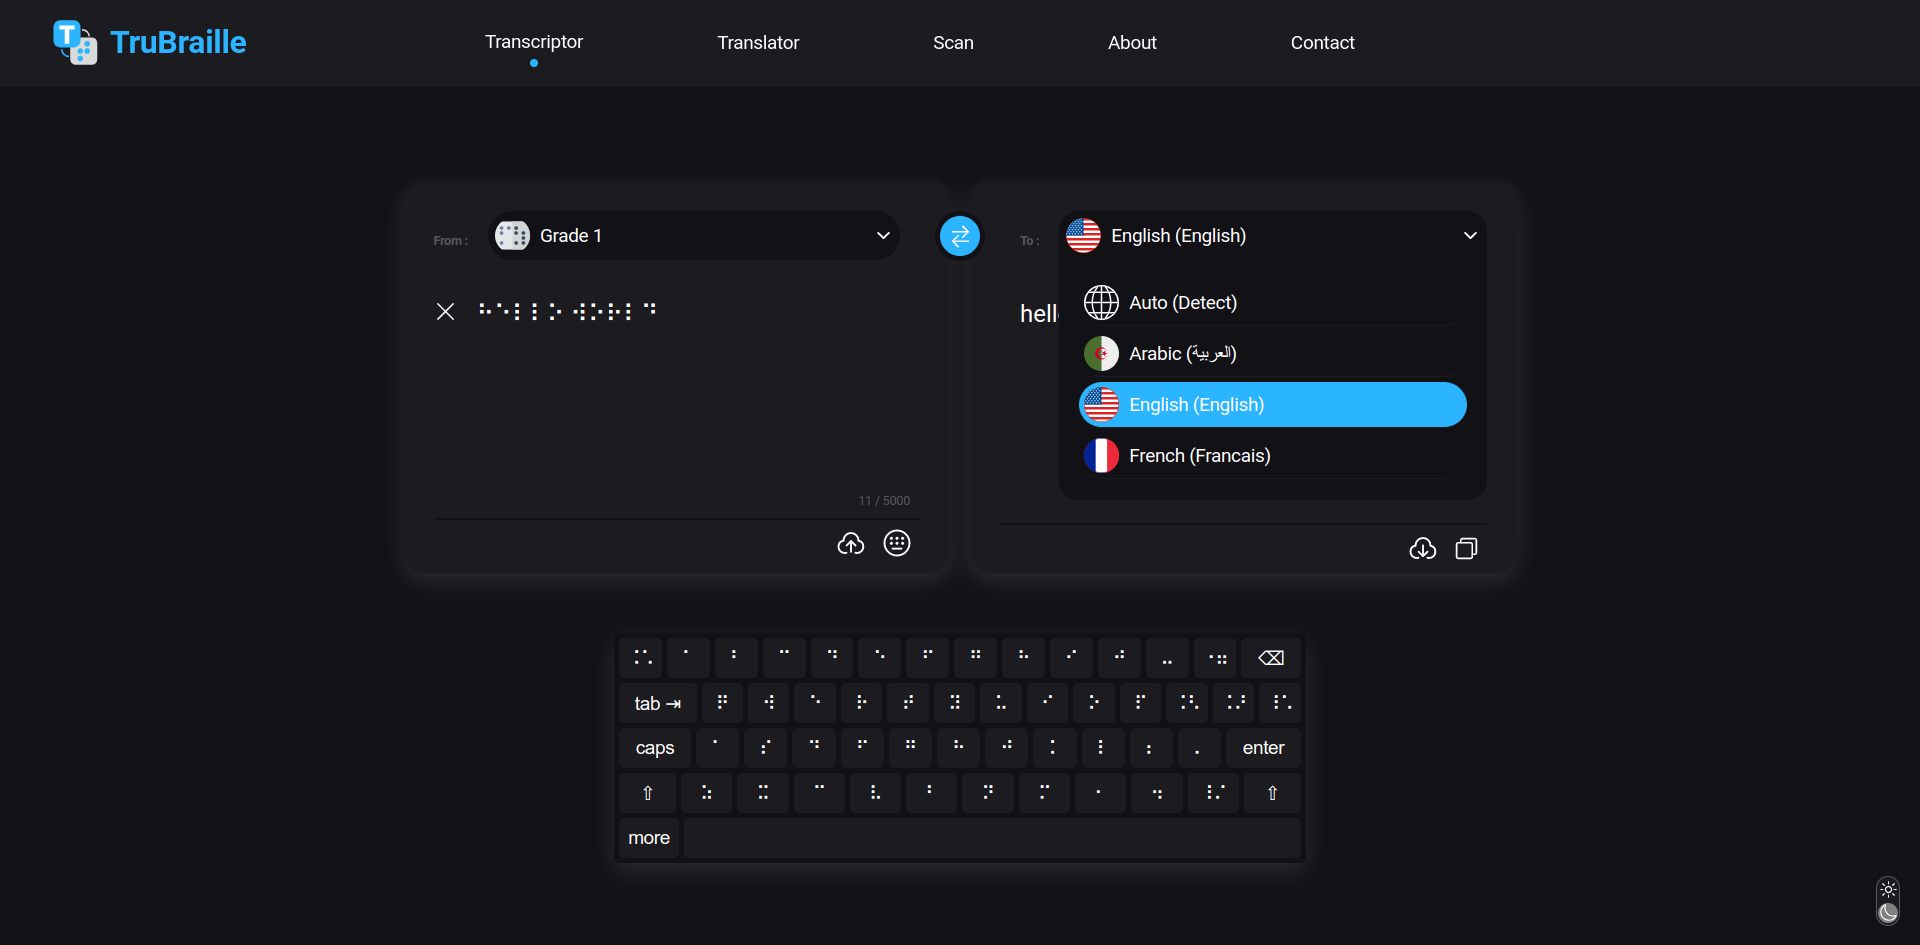
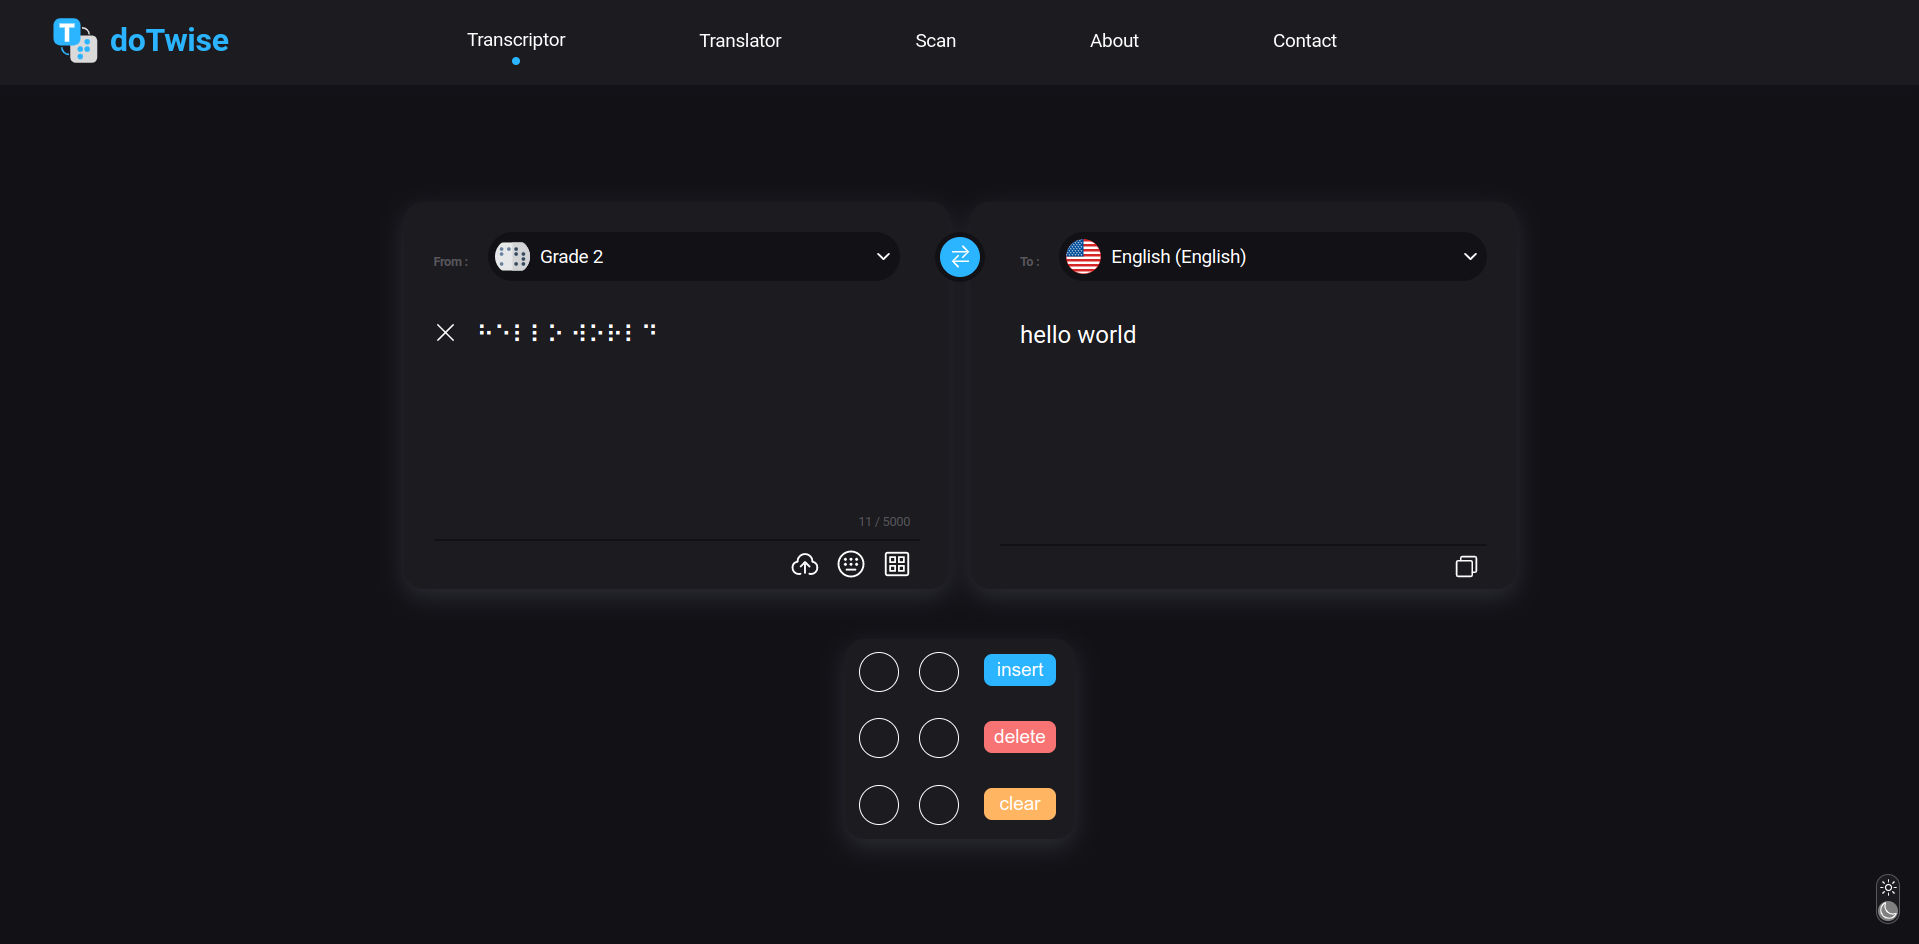
update the readme file

diff --git a/frontend/braille-translator/src/constants/keyboardLayout.js b/frontend/braille-translator/src/constants/keyboardLayout.js
@@ -129,6 +129,121 @@ const layout = {
     "{shift} ⠘⠒ ⠒ ⠴⠂ ⠐⠦ ⠇⠜ ⠜ ⠄ ⠂ ⠲ ⠦ {shift}",
     "@ {space}",
   ],
+  auto_2: [
+    '` 1 2 3 4 5 6 7 8 9 0 - = {bksp}',
+    '{tab} q w e r t y u i o p [ ] \\',
+    '{lock} a s d f g h j k l ; \' {enter}',
+    '{shift} z x c v b n m , . / {shift}',
+    '{space}'
+  ],
+  auto_2_shift: [
+    '~ ! @ # $ % ^ &amp; * ( ) _ + {bksp}',
+    '{tab} Q W E R T Y U I O P { } |',
+    '{lock} A S D F G H J K L : " {enter}',
+    '{shift} Z X C V B N M &lt; &gt; ? {shift}',
+    '{space}'
+  ],
+  "2_auto": [
+    '⠨⠡ ⠁ ⠃ ⠉ ⠙ ⠑ ⠋ ⠛ ⠓ ⠊ ⠚ ⠤ ⠐⠶ {bksp}',
+    '{tab} ⠟ ⠺ ⠑ ⠗ ⠞ ⠽ ⠥ ⠊ ⠕ ⠏ ⠨⠣ ⠨⠜ ⠸⠡',
+    '{lock} ⠁ ⠎ ⠙ ⠋ ⠛ ⠓ ⠚ ⠅ ⠇ ⠆ ⠄ {enter}',
+    '{shift} ⠵ ⠭ ⠉ ⠧ ⠃ ⠝ ⠍ ⠂ ⠲ ⠸⠌ {shift}',
+    '@ {space}'
+
+  ],
+  "2_auto_shift": [
+    '⠈⠔ ⠖ ⠈⠁ ⠸⠹ ⠈⠎ ⠨⠴ ⠈⠢ ⠈⠯ ⠐⠔ ⠐⠣ ⠐⠜ ⠨⠤ ⠐⠖ {bksp}',
+    '{tab} ⠟ ⠺ ⠑ ⠗ ⠞ ⠽ ⠥ ⠊ ⠕ ⠏ ⠸⠣ ⠸⠜ ⠸⠳',
+    '{lock} ⠁ ⠎ ⠙ ⠋ ⠛ ⠓ ⠚ ⠅ ⠇ ⠒ ⠠⠶ {enter}',
+    '{shift} ⠵ ⠭ ⠉ ⠧ ⠃ ⠝ ⠍ ⠈⠣ ⠈⠜ ⠰⠦ {shift}',
+    '@ {space}'
+  ],
+  en_2: [
+    '` 1 2 3 4 5 6 7 8 9 0 - = {bksp}',
+    '{tab} q w e r t y u i o p [ ] \\',
+    '{lock} a s d f g h j k l ; \' {enter}',
+    '{shift} z x c v b n m , . / {shift}',
+    '{space}'
+  ],
+  en_2_shift: [
+    '~ ! @ # $ % ^ &amp; * ( ) _ + {bksp}',
+    '{tab} Q W E R T Y U I O P { } |',
+    '{lock} A S D F G H J K L : " {enter}',
+    '{shift} Z X C V B N M &lt; &gt; ? {shift}',
+    '{space}'
+  ],
+  "2_en": [
+    '⠨⠡ ⠁ ⠃ ⠉ ⠙ ⠑ ⠋ ⠛ ⠓ ⠊ ⠚ ⠤ ⠐⠶ {bksp}',
+    '{tab} ⠟ ⠺ ⠑ ⠗ ⠞ ⠽ ⠥ ⠊ ⠕ ⠏ ⠨⠣ ⠨⠜ ⠸⠡',
+    '{lock} ⠁ ⠎ ⠙ ⠋ ⠛ ⠓ ⠚ ⠅ ⠇ ⠆ ⠄ {enter}',
+    '{shift} ⠵ ⠭ ⠉ ⠧ ⠃ ⠝ ⠍ ⠂ ⠲ ⠸⠌ {shift}',
+    '@ {space}'
+
+  ],
+  "2_en_shift": [
+    '⠈⠔ ⠖ ⠈⠁ ⠸⠹ ⠈⠎ ⠨⠴ ⠈⠢ ⠈⠯ ⠐⠔ ⠐⠣ ⠐⠜ ⠨⠤ ⠐⠖ {bksp}',
+    '{tab} ⠟ ⠺ ⠑ ⠗ ⠞ ⠽ ⠥ ⠊ ⠕ ⠏ ⠸⠣ ⠸⠜ ⠸⠳',
+    '{lock} ⠁ ⠎ ⠙ ⠋ ⠛ ⠓ ⠚ ⠅ ⠇ ⠒ ⠠⠶ {enter}',
+    '{shift} ⠵ ⠭ ⠉ ⠧ ⠃ ⠝ ⠍ ⠈⠣ ⠈⠜ ⠰⠦ {shift}',
+    '@ {space}'
+  ],
+  fr_2: [
+    "` 1 2 3 4 5 6 7 8 9 0 \u00B0 + {bksp}",
+    "{tab} a z e r t y u i o p ^ $",
+    "{lock} q s d f g h j k l m \u00F9 * {enter}",
+    "{shift} < w x c v b n , ; : ! {shift}",
+    "{space}",
+  ],
+  fr_2_shift: [
+    "\u00B2 & \u00E9 \" ' ( - \u00E8 _ \u00E7 \u00E0 ) = {bksp}",
+    "{tab} A Z E R T Y U I O P \u00A8 \u00A3",
+    "{lock} Q S D F G H J K L M % \u00B5 {enter}",
+    "{shift} > W X C V B N ? . / \u00A7 {shift}",
+    "{space}",
+  ],
+  "2_fr": [
+    "⠠ ⠡ ⠣ ⠩ ⠹ ⠱ ⠫ ⠻ ⠳ ⠪ ⠼ ⠐⠕ ⠠⠖ {bksp}",
+    "{tab} ⠁ ⠵ ⠑ ⠗ ⠞ ⠽ ⠥ ⠊ ⠕ ⠏ ⠈ ⠘⠎",
+    "{lock} ⠟ ⠎ ⠙ ⠋ ⠛ ⠓ ⠚ ⠅ ⠇ ⠍ ⠾ ⠠⠔ {enter}",
+    "{shift} ⠐⠣ ⠺ ⠭ ⠉ ⠧ ⠃ ⠝ ⠂ ⠆ ⠒ ⠰⠖ {shift}",
+    "@ {space}",
+  ],
+  "2_fr_shift": [
+    "⠈⠣ ⠐⠿ ⠰⠿ ⠄ ⠰⠦ ⠰⠤ ⠰⠮ ⠐⠤ ⠰⠯ ⠷ ⠰⠴ ⠠⠶ {bksp}",
+    "{tab} ⠁ ⠵ ⠑ ⠗ ⠞ ⠽ ⠥ ⠊ ⠕ ⠏ ⠨ ⠘⠇",
+    "{lock} ⠟ ⠎ ⠙ ⠋ ⠛ ⠓ ⠚ ⠅ ⠇ ⠍ ⠐⠬ ⠘⠍ {enter}",
+    "{shift} ⠐⠜ ⠺ ⠭ ⠉ ⠧ ⠃ ⠝ ⠰⠢ ⠲ ⠠⠌ ⠐⠏ {shift}",
+    "@ {space}",
+  ],
+  ar_2: [
+    "\u0630 1 2 3 4 5 6 7 8 9 0 - = {bksp}",
+    "{tab} \u0636 \u0635 \u062B \u0642 \u0641 \u063A \u0639 \u0647 \u062E \u062D \u062C \u062F \\",
+    "{lock} \u0634 \u0633 \u064A \u0628 \u0644 \u0627 \u062A \u0646 \u0645 \u0643 \u0637 {enter}",
+    "{shift} \u0626 \u0621 \u0624 \u0631 \u0644\u0627 \u0649 \u0629 \u0648 \u0632 \u0638 {shift}",
+    "{space}",
+  ],
+  ar_2_shift: [
+    "\u0651 ! @ # $ % ^ & * ) ( _ + {bksp}",
+    "{tab} \u064E \u064B \u064F \u064C \u0644\u0625 \u0625 \u2018 \u00F7 \u00D7 \u061B < > |",
+    '{lock} \u0650 \u064D ] [ \u0644\u0623 \u0623 \u0640 \u060C / : " {enter}',
+    "{shift} ~ \u0652 } { \u0644\u0622 \u0622 \u2019 , . \u061F {shift}",
+    "{space}",
+  ],
+  "2_ar": [
+    "⠮ ⠁ ⠃ ⠉ ⠙ ⠑ ⠋ ⠛ ⠓ ⠊ ⠚ ⠤⠤ ⠰⠶ {bksp}",
+    "{tab} ⠫ ⠯ ⠹ ⠟ ⠋ ⠣ ⠷ ⠓ ⠭ ⠱ ⠚ ⠙ ⠘⠤",
+    "{lock} ⠩ ⠎ ⠊ ⠃ ⠇ ⠁ ⠞ ⠝ ⠍ ⠅ ⠾ {enter}",
+    "{shift} ⠽ ⠄ ⠳ ⠗ ⠧ ⠕ ⠡ ⠺ ⠵ ⠿ {shift}",
+    "@ {space}",
+  ],
+  "2_ar_shift": [
+    "⠠ ⠖ ⠈⠁ ⠸⠔ ⠈⠲ ⠒⠏ ⠈⠢ ⠈⠯ ⠰⠔ ⠴ ⠦ ⠠⠤ ⠰⠖ {bksp}",
+    "{tab} ⠂ ⠆ ⠥ ⠢ ⠇⠨ ⠨ ⠄ ⠰⠲ ⠰⠦ ⠐⠆ ⠘⠢ ⠘⠔ ⠸⠒",
+    '{lock} ⠑ ⠔ ⠴⠄ ⠠⠦ ⠇⠌ ⠌ ⠒⠒ ⠐ ⠸⠤ ⠐⠂ ⠶ {enter}',
+    "{shift} ⠘⠒ ⠒ ⠴⠂ ⠐⠦ ⠇⠜ ⠜ ⠄ ⠂ ⠲ ⠦ {shift}",
+    "@ {space}",
+  ],
+
   "more": [
     '⠁ ⠂ ⠃ ⠄ ⠅ ⠆ ⠇ ⠈ ⠉ ⠊ ⠋ ⠌ ⠍ ⠎ ⠏ {bksp}',
     '⠐ ⠑ ⠒ ⠓ ⠔ ⠕ ⠖ ⠗ ⠘ ⠙ ⠚ ⠛ ⠜ ⠝ ⠞ ⠟',

diff --git a/frontend/README.md b/frontend/README.md
@@ -1,0 +1,34 @@
+# DotWise
+
+DotWise is a web application that provides a bidirectional Braille translation with multiple languages, voice speech, voice speech recognition, text/braille keyboard, Braille board, black text image recognition, and on Braille text field, you can write in Braille using the keys s d f j k l corresponding number 3 2 1 4 5 6 in the dot cell position, dark mode, mobile version, and more.
+
+##### Light Mode
+![light mode creenshot](images/light_mode.png)
+
+##### Dark Mode
+![dark mode creenshot](images/dark_mode.png)
+
+## Features
+
+- Bidirectional Braille translation with multiple languages.
+- Auto-detect language feature.
+- Voice speech and voice speech recognition.
+- Text/Braille keyboard.
+- Braille board.
+- Black text image recognition.
+- Braille text field where you can write in Braille using the keys s d f j k l corresponding number 3 2 1 4 5 6 in the dot cell position.
+- Dark mode.
+- Mobile version.
+
+## Installation
+
+- Clone the repository using `git clone https://github.com/JamelSyh/braille-translator.git`
+- Install yarn if you do not already have it installed `npm i --global yarn --save`(or you can use `npm i` and `npm start`)
+- go to the project root directory `cd braille_project/frontend/braille-translator`
+- Install dependencies using `yarn install`
+- Run the app using `yarn start`
+
+## Contributing
+
+Contributions are welcome! If you have any suggestions, bug reports, or feature requests, please open an issue or a pull request on this repository.
+
